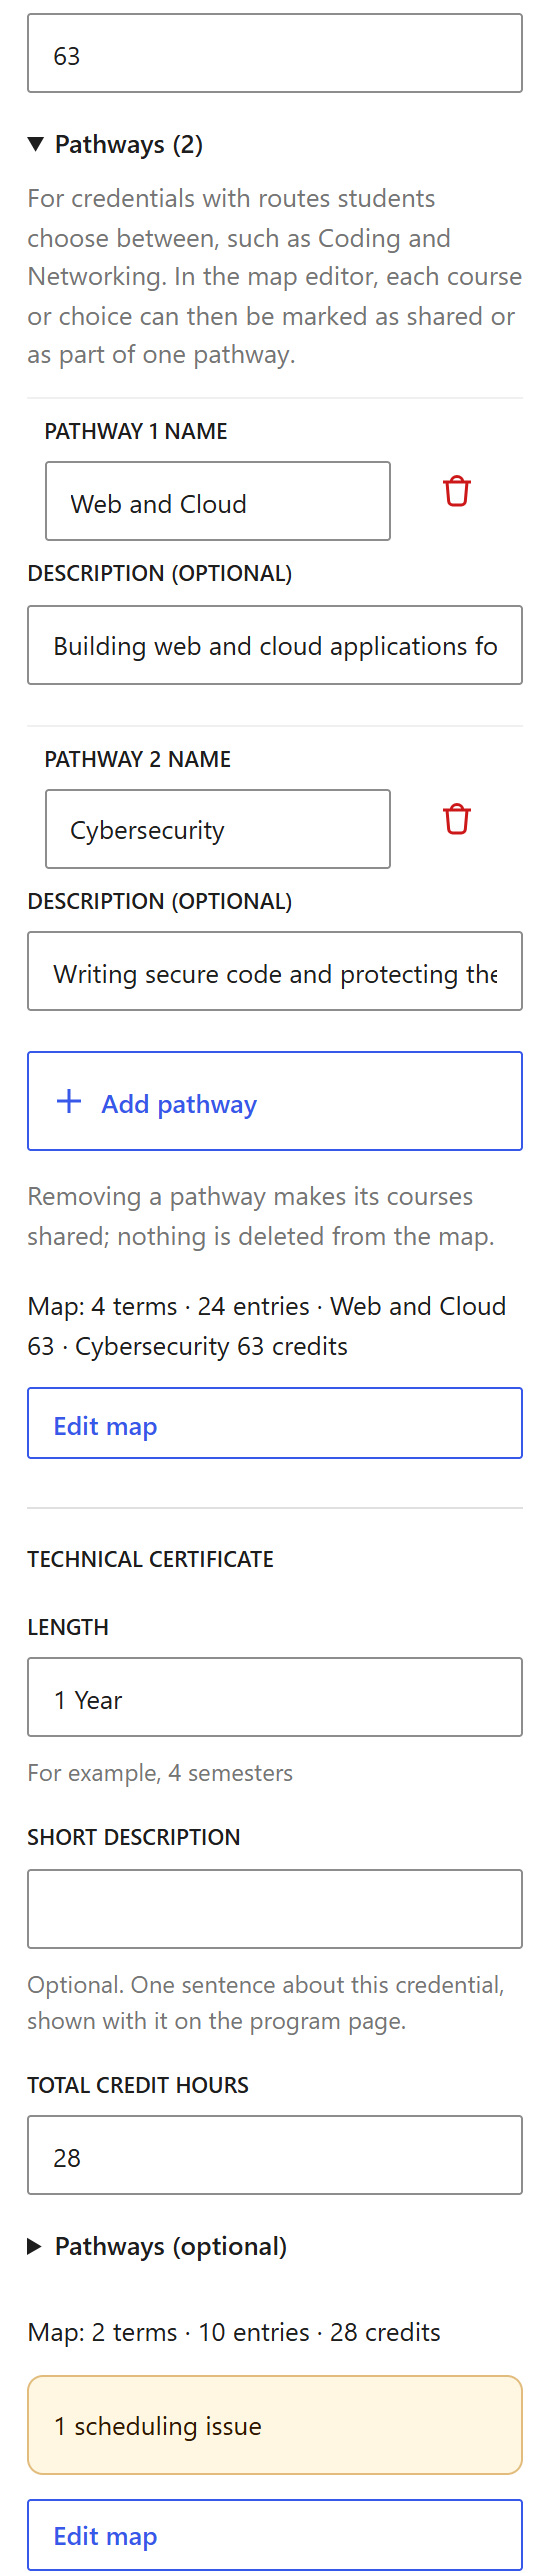
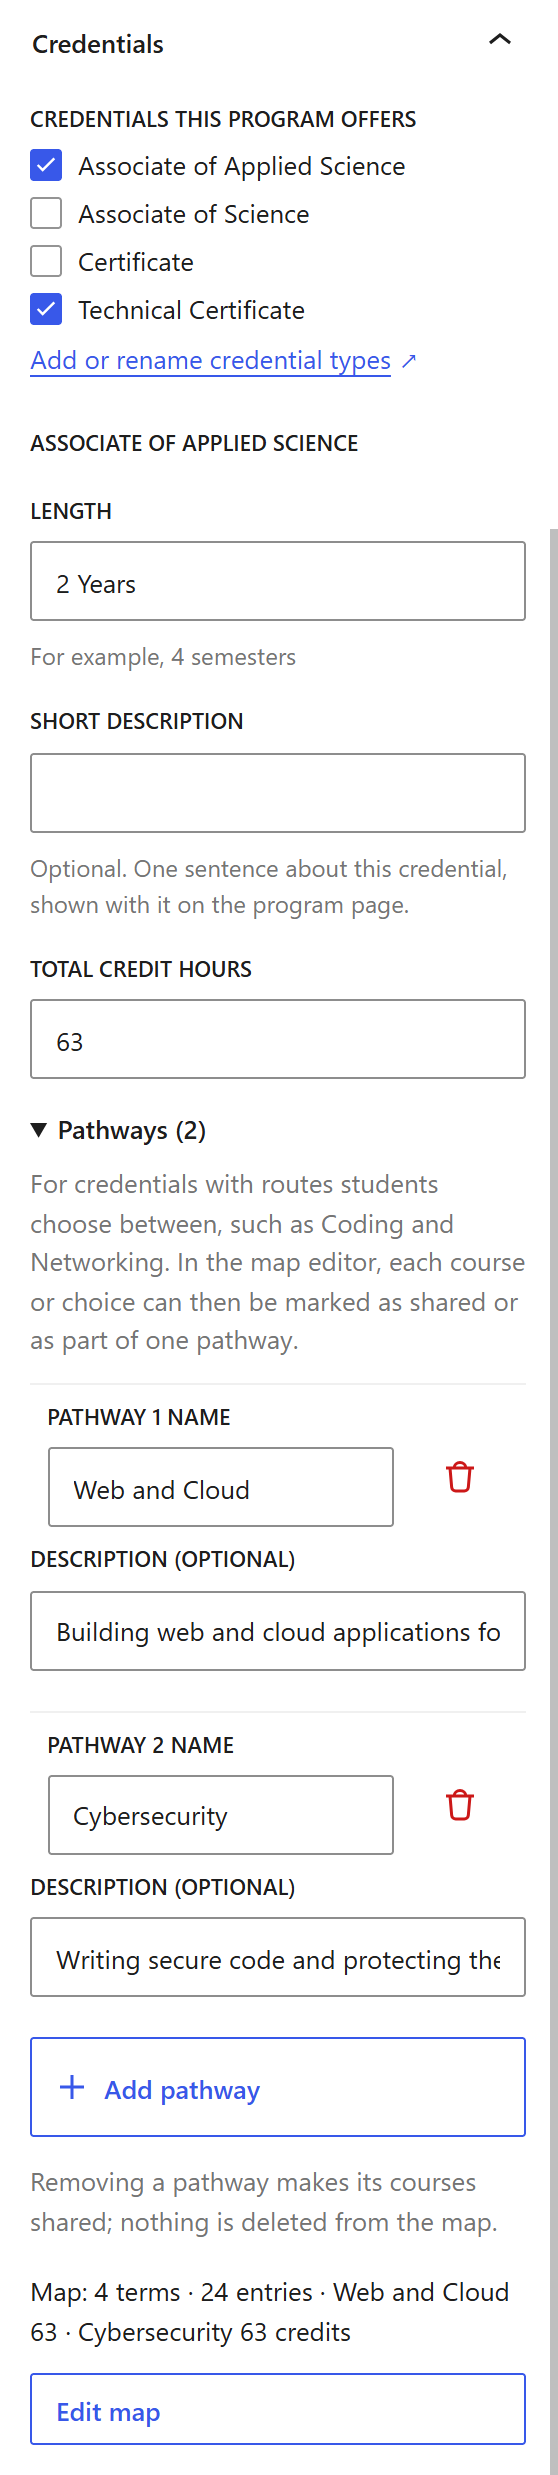
Updated Getting Started Guide
Updated Step 5 with a new screenshot to reflect modifications to how Credentials are now handled.

diff --git a/getting-started/index.html b/getting-started/index.html
@@ -193,11 +193,7 @@
 <ol>
 <li>Go to <strong>Catalogist → Add New Program</strong> and enter the program's name as the title.</li>
 <li>Type an overview in the first paragraph. New programs start with a ready-made layout below it (see step 8).</li>
-<li>In the editor sidebar, open the <strong>Program</strong> tab and tick the program's details in these panels:<ul>
-<li><strong>Credential Types</strong>: every credential the program offers, such as Associate of Applied Science and Technical Certificate</li>
-<li><strong>Departments</strong>, <strong>Career Areas</strong> and <strong>Delivery Modes</strong>: these power the filters in the Program Finder</li>
-</ul>
-</li>
+<li>In the editor sidebar, open the <strong>Program</strong> tab and tick the program's <strong>Departments</strong>, <strong>Career Areas</strong> and <strong>Delivery Modes</strong>. These power the filters in the Program Finder.</li>
 </ol>
 <p><strong>Program Details panel</strong></p>
 <p>Everything here is optional, and anything left empty isn't shown on the page:</p>
@@ -207,7 +203,8 @@
 <li><strong>CIP code</strong> and <strong>CIP title</strong></li>
 </ul>
 <p><strong>Credentials panel</strong></p>
-<p>Each credential you ticked gets its own section here, with:</p>
+<p>At the top of the panel, tick every credential the program offers, such as Associate of Applied Science and Technical Certificate. To add a credential type that isn't listed, use <strong>Add or rename credential types</strong>.</p>
+<p>Each credential you tick gets its own section below, with:</p>
 <ul>
 <li><strong>Length</strong>, such as "2 years"</li>
 <li><strong>Short description</strong> (optional), one sentence shown with the credential</li>
@@ -215,7 +212,7 @@
 <li><strong>Pathways</strong> (optional; see step 7)</li>
 <li>The credential's <strong>program map</strong> (see step 6)</li>
 </ul>
-<figure class="narrow"><a href="../assets/guide/step-5-credentials.png"><img src="../assets/guide/step-5-credentials.png" alt="The Credentials panel: an associate degree with two pathways, and a technical certificate below it." width="555" height="2573" loading="lazy"></a><figcaption>The Credentials panel: an associate degree with two pathways, and a technical certificate below it.</figcaption></figure>
+<figure class="narrow"><a href="../assets/guide/step-5-credentials.png"><img src="../assets/guide/step-5-credentials.png" alt="The Credentials panel: the credentials this program offers, then the associate degree with its two pathways." width="558" height="2475" loading="lazy"></a><figcaption>The Credentials panel: the credentials this program offers, then the associate degree with its two pathways.</figcaption></figure>
 
 <p>Click <strong>Publish</strong> (or <strong>Save draft</strong>) when you're done.</p>
 <h2 id="map">Step 6: Build the program map</h2>
@@ -225,7 +222,7 @@
 <p><strong>Terms and courses</strong></p>
 <ol>
 <li>Click <strong>Add term</strong> for each semester. Rename a term by editing its name, and use the arrows beside it to reorder.</li>
-<li>In each term, use <strong>Add a course</strong>: start typing a course code or title and pick it from the list.</li>
+<li>In each term, use <strong>Add a course</strong>: start typing a course code or title, then press <strong>Enter</strong> or <strong>Tab</strong> to add the highlighted course, or click it. The up and down arrow keys move the highlight. The box stays ready for the next course.</li>
 <li>Use the arrows on each entry to move it up or down, or to the previous or next term. The × removes it.</li>
 </ol>
 <p>Each term shows its credit total, and the toolbar shows the map's total. If terms feel cramped, choose fewer under <strong>Terms per row</strong> in the toolbar; your choice is remembered in your browser for every map.</p>
@@ -234,7 +231,7 @@
 <ul>
 <li><strong>Label</strong>, such as "Choose 1 Communication Course"</li>
 <li><strong>Credits</strong> the slot counts for</li>
-<li><strong>Single-course options</strong>: the courses students can pick from. Leave everything empty for an open choice, like "Any approved humanities course".</li>
+<li><strong>Single-course options</strong>: the courses students can pick from. As in <strong>Add a course</strong>, Enter or Tab adds the highlighted course. Leave everything empty for an open choice, like "Any approved humanities course".</li>
 <li><strong>Course groups</strong>, for options taken together, such as a lecture and its lab. Click <strong>Add a course group</strong> and add both courses; each group counts as one option.</li>
 </ul>
 <p>Click <strong>Done</strong> to close the slot, or its pencil button to reopen it.</p>
